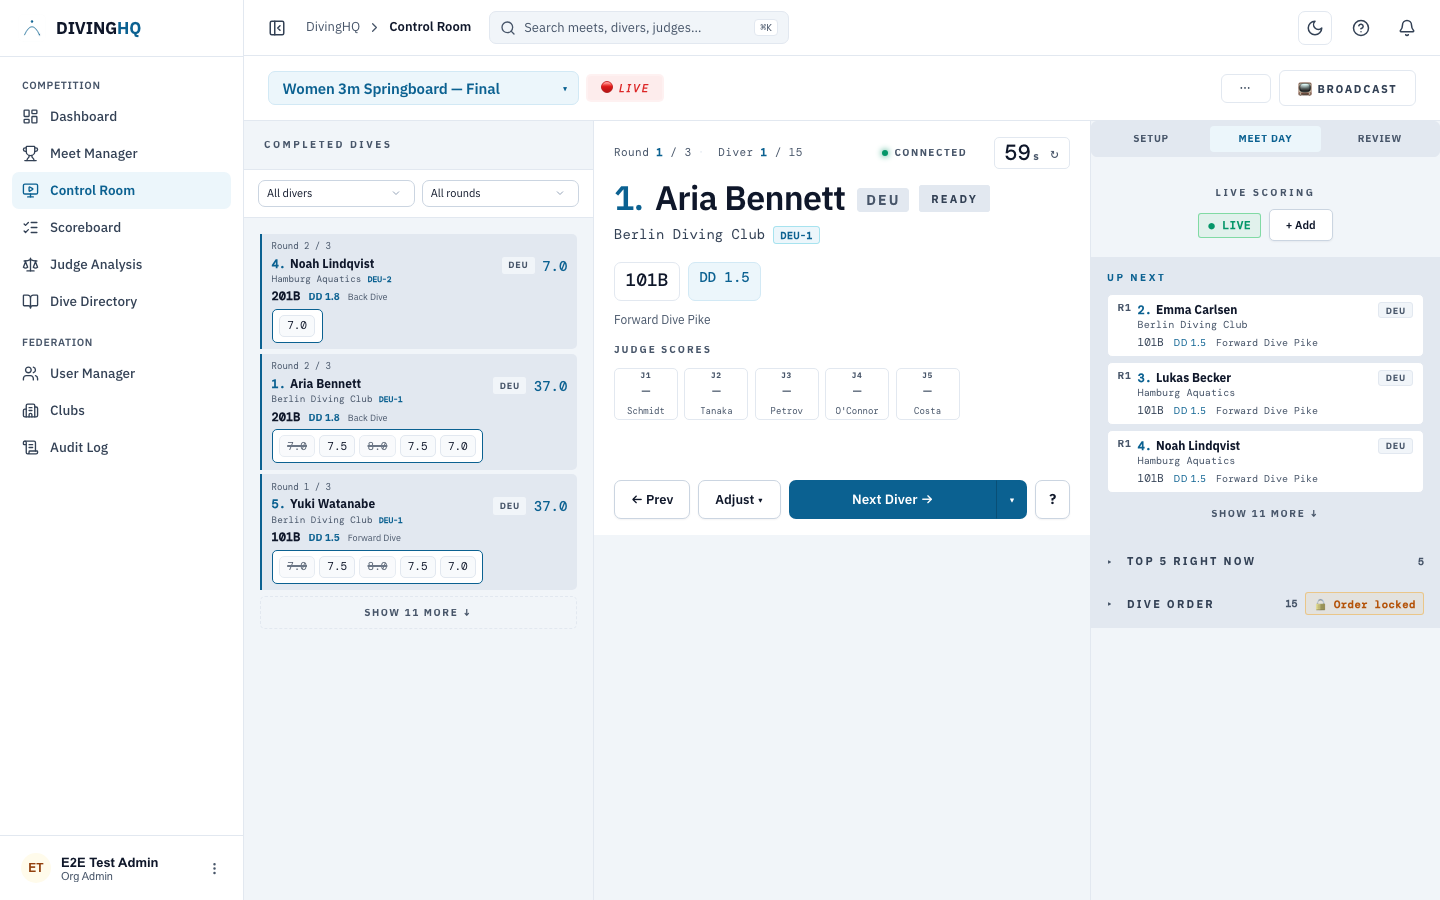
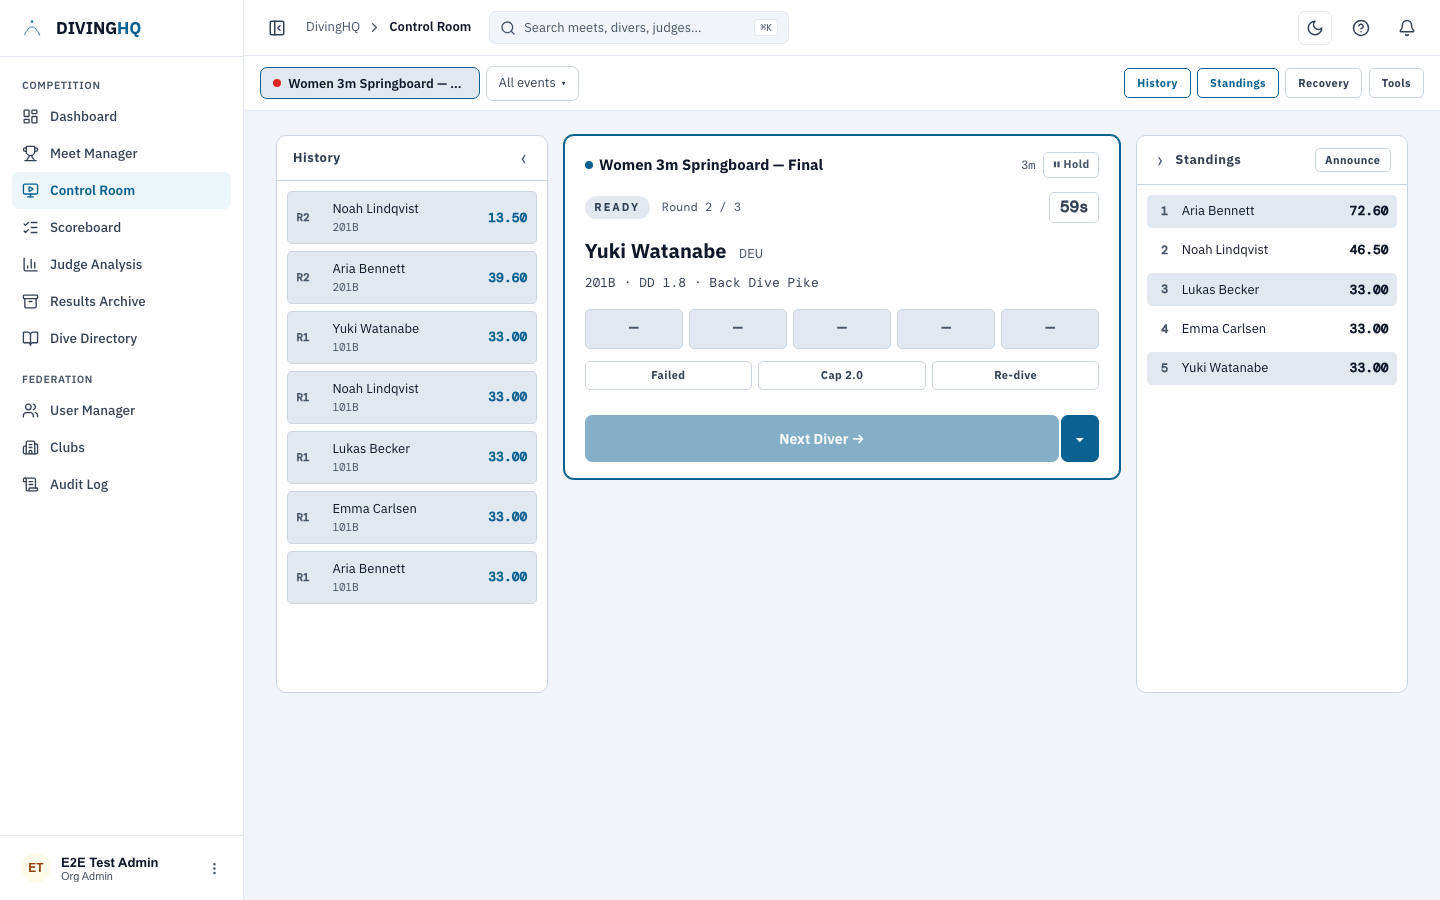
Docs: multi-event Control Room (README, in-app guide, screenshots)
Reflect the simultaneous-events Control Room across the docs:
- README Control Room section rewritten for the top event bar, the
  three-column single-event board, and the side-by-side pool cards when
  multiple events are live; new control-room-simultaneous.png + refreshed
  control-room.png (V2).
- In-app guide (GuideView): Control Room copy now mentions running two or
  more events at once; removed the dead Control Room keyboard-shortcuts
  section (V2 has no hotkeys — the V1 composable is gone); refreshed the
  guide-screenshots/control-room.png tile.
- wiki-screenshots harness: capture control-room-simultaneous.png (two
  Live events) alongside the single-event control-room.png. Wiki pages
  pull these from docs/screenshots on main.

diff --git a/src/views/GuideView.vue b/src/views/GuideView.vue
@@ -21,17 +21,12 @@
  *      each with a thumbnail screenshot served from
  *      /public/guide-screenshots/. Lazy-loaded so the page above
  *      the fold stays cheap.
- *   4. Keyboard shortcuts — the Control Room hotkeys an operator
- *      needs after their first meet. Universal symbols (Space,
- *      T, F, ←, →) are hardcoded in the template so they don't
- *      multiply the i18n key count for what is already universal
- *      across keyboards. Only the per-row descriptions are i18n'd.
- *   5. Glossary — diving-specific vocabulary (DD, trim, synchro,
+ *   4. Glossary — diving-specific vocabulary (DD, trim, synchro,
  *      redive, board heights) that newcomers will hit on day one.
- *   6. FAQ — common first questions, now a <details>/<summary>
+ *   5. FAQ — common first questions, now a <details>/<summary>
  *      accordion so users can scan questions without scrolling
  *      past every answer.
- *   7. Wiki — links to the deep-dive material.
+ *   6. Wiki — links to the deep-dive material.
  *
  * Navigation:
  *   • A sticky table-of-contents sits on the left on desktop;
@@ -64,7 +59,6 @@ const SECTIONS = [
   { id: 'overview',      key: 'overview' },
   { id: 'roles',         key: 'roles' },
   { id: 'quick-actions', key: 'quick_actions' },
-  { id: 'shortcuts',     key: 'shortcuts' },
   { id: 'glossary',      key: 'glossary' },
   { id: 'faq',           key: 'faq' },
   { id: 'wiki',          key: 'wiki' },
@@ -83,22 +77,6 @@ const TILES = [
   { id: 'coach',          to: '/coach',           img: '/guide-screenshots/coach.png',          glyph: '🎓' },
   { id: 'meet_manager',   to: '/manager',         img: '/guide-screenshots/meet-manager.png',   glyph: '📋' },
   { id: 'dive_directory', to: '/dive-directory',  img: '/guide-screenshots/dive-directory.png', glyph: '📖' },
-]
-
-// Control Room hotkeys. Keys are universal (Space, ←, →, single
-// letters) so they're hardcoded in the template. The description
-// half is i18n'd. Source of truth: see Control Room composable
-// `useControlRoomShortcuts` — if hotkeys change there, mirror
-// the change here.
-const SHORTCUTS = [
-  { keys: ['Space'],     descKey: 'next_diver' },
-  { keys: ['T'],         descKey: 'top_of_round' },
-  { keys: ['F'],         descKey: 'fail' },
-  { keys: ['R'],         descKey: 'redive' },
-  { keys: ['H'],         descKey: 'hold' },
-  { keys: ['L'],         descKey: 'live_toggle' },
-  { keys: ['←', '→'],    descKey: 'queue_nav' },
-  { keys: ['?'],         descKey: 'help_overlay' },
 ]
 
 // Glossary of diving-specific terms. Term labels are universal
@@ -306,24 +284,6 @@ onBeforeUnmount(() => observer?.disconnect())
               </div>
             </RouterLink>
           </div>
-        </section>
-
-        <!-- Keyboard shortcuts — Control Room hotkeys. Live in
-             the guide rather than only the in-app `?` overlay so
-             a meet manager can study them before the meet from
-             a different device. -->
-        <section id="shortcuts" class="guide-section">
-          <h2 class="guide-h2">{{ $t('guide.section_shortcuts') }}</h2>
-          <p class="guide-section-lede">{{ $t('guide.shortcuts.lede') }}</p>
-
-          <dl class="guide-shortcuts">
-            <template v-for="row in SHORTCUTS" :key="row.descKey">
-              <dt class="guide-shortcut-keys">
-                <kbd v-for="k in row.keys" :key="k">{{ k }}</kbd>
-              </dt>
-              <dd class="guide-shortcut-desc">{{ $t(`guide.shortcut.${row.descKey}`) }}</dd>
-            </template>
-          </dl>
         </section>
 
         <!-- Glossary — diving-specific vocabulary. Terms are

diff --git a/test/e2e/wiki-screenshots.spec.js b/test/e2e/wiki-screenshots.spec.js
@@ -542,7 +542,7 @@ test("spectator: scoreboard list + live + archive + meet", async ({ page, reques
 // PHASE 4 — Operator views: dashboard / control room / meet
 // manager (signed in as admin).
 // =============================================================
-test("operator: dashboard / control-room / meet-manager", async ({ page, baseURL }) => {
+test("operator: dashboard / control-room / meet-manager", async ({ page, baseURL, request }) => {
   test.setTimeout(120_000);
   await page.setViewportSize(VIEWPORT);
   await signIn(page, world.adminUsername);
@@ -601,6 +601,66 @@ test("operator: dashboard / control-room / meet-manager", async ({ page, baseURL
     path: `${SCREENSHOT_DIR}/new-event-modal.png`,
     fullPage: false,
   });
+
+  // 5. control-room-simultaneous.png — TWO Live events running at once.
+  //    Spin up a second Live event (created last so the single-event
+  //    control-room.png + meet-manager.png above stay one-Live), then
+  //    open the Control Room: the side columns auto-collapse to drawers
+  //    and each Live event renders as its own pool card.
+  const diveId = await setup.pickDiveId({ height: 3.0, dive_code: "101", position: "B" });
+  const liveB = await setup.createEvent(request, {
+    adminToken: world.adminToken,
+    name: "Men 3m Springboard — Final",
+    gender: "Male",
+    number_of_judges: 5,
+    total_rounds: 3,
+    height: "3m",
+    event_type: "individual",
+  });
+  await request.put(`/api/events/${liveB.id}/meet`, {
+    headers: { Authorization: `Bearer ${world.adminToken}` },
+    data: { meet_id: world.meetId },
+  });
+  for (const diver of world.divers.slice(0, 4)) {
+    await setup.insertDiveList({
+      eventId: liveB.id,
+      competitorId: diver.userId,
+      dives: [{ round_number: 1, dive_id: diveId }],
+    });
+  }
+  await setup.assignJudges(request, {
+    adminToken: world.adminToken,
+    eventId: liveB.id,
+    judgeIds: world.judges.map((j) => j.userId),
+  });
+  await setup.setEventStatus(request, {
+    adminToken: world.adminToken,
+    eventId: liveB.id,
+    status: "Live",
+  });
+
+  // Re-announce the first event's mid-meet diver so its pool reads live.
+  const simSocket = await openSocket(baseURL || world.baseURL, world.adminToken);
+  simSocket.emit("subscribe_event", { event_id: world.liveEvent.id });
+  simSocket.emit("set_active_diver", {
+    event_id:      world.liveEvent.id,
+    competitor_id: world.thirdDiverId,
+    diverName:     world.liveDivers[2].fullName,
+    full_name:     world.liveDivers[2].fullName,
+    round_number:  2,
+    diveCode:      "201B",
+    dd:            1.8,
+    description:   "Back Dive",
+    position:      "B",
+    eventName:     world.liveEvent.name,
+  });
+
+  await page.goto(`/control?event=${world.liveEvent.id}`);
+  await expect(page.locator(".cv2-pool")).toHaveCount(2, { timeout: 15_000 });
+  await expect(page.locator(".cv2-pool .cv2-live-diver").first()).toBeVisible({ timeout: 15_000 });
+  await settle(page, 1500);
+  await snap(page, "control-room-simultaneous");
+  simSocket.disconnect();
 });
 
 // =============================================================

diff --git a/README.md b/README.md
@@ -13,7 +13,7 @@ Built around five audiences:
 
 - **Divers** — Diver Portal for building and submitting dive lists per event (with World Aquatics DD lookup, height filter, synchro partner autocomplete), plus a personal profile with PBs, score-trend sparkline, average DD, best single dive, and a customisable analytics dashboard with 10+ widgets. Divers can also request a **club change** (subject to org-admin approval) from their Dive Sheets page.
 - **Coaches** — A `coach` role with a per-coach roster of linked divers, on-behalf-of dive-list submission, a real-time "your diver is up next" push alert, and one-click access to each diver's profile.
-- **Meet operators** — Control room view advances divers, broadcasts state to judges and the public scoreboard, finalises events. 60-second shot clock, hold/resume, score correction, queue reorder, late entry, audit-logged referee actions. Events are organised in a master–detail **Meet Manager** (meets on the left, their events on the right). Org admins run their federation from a **User Manager** — edit a member’s competition details (name, DOB, gender, nationality), assign clubs, suspend / reactivate accounts, trigger password-reset and email-verification emails, grant org roles, and approve **club-change requests**, including cross-federation **transfers** via a source-org + target-org + diver handshake. Every change is written to the Audit Log.
+- **Meet operators** — Control room view advances divers, broadcasts state to judges and the public scoreboard, finalises events — and runs **two or more events simultaneously from one window**, each pool with its own shot clock and controls. 60-second shot clock, hold/resume, score correction, queue reorder, late entry, audit-logged referee actions. Events are organised in a master–detail **Meet Manager** (meets on the left, their events on the right). Org admins run their federation from a **User Manager** — edit a member’s competition details (name, DOB, gender, nationality), assign clubs, suspend / reactivate accounts, trigger password-reset and email-verification emails, grant org roles, and approve **club-change requests**, including cross-federation **transfers** via a source-org + target-org + diver handshake. Every change is written to the Audit Log.
 - **Judges** — Single-purpose phone-friendly view that submits scores back to the server in real time. Synchro panels see role hints (Exec A / Exec B / Sync) so they know which judging slot they're filling. **Judge Analysis** (`/judge-profile`) gives every judge a self-service dashboard showing how their scoring tracks against the panel-kept mean (post World Aquatics trim, PART FOUR Article 13) — overall bias, drop rate (with high vs low split), and breakdowns per board height, dive group, country, club, individual diver, round, and DD difficulty. Fully customisable widget catalogue, mirroring the diver dashboard pattern. A separate per-event **Judge Analysis** matrix (`/judge-analysis` — a tabbed By-Event / By-Judge page, with the app shell for signed-in users and a standalone view for the public) shows how each judge’s calls would have re-ranked the field, with World-Aquatics-correct synchro role breakdowns (Exec A / Exec B / Sync contributions that sum to the pair total, per Article 9.1.5).
 - **Spectators** — Public scoreboard with current performer, live standings, per-round leaderboard with movement arrows, public meet landing pages, and an archive of completed meets.
 
@@ -129,9 +129,15 @@ The `+ New Event` button opens the create-event modal — suggested templates, m
 
 #### Control Room
 
-The operator's cockpit during a live meet, deliberately pared back so only the things you need every dive are visible at rest — secondary actions live behind small popovers. Left column is the running history of completed dives (click any card to open the **Score Correction modal**, which now shows a live preview of trim sum + dive points + delta as you type). Centre column is the active diver — name, country chip, club affiliation, dive code + DD + description, the live judge tile strip, an inline auto-cycling status pill (READY / DIVING / JUDGING), and the 60-second WA post-warning shot clock anchored top-right. The bottom action row reads `← Prev · Adjust ▾ · Next Diver → ▾ · ?` — Adjust houses Failed Dive / Cap Score / Re-Dive; Next Diver's `▾` opens the Auto-next picker; `?` reveals every keyboard shortcut. Right column is **Pre-Meet** at the top (4-pip stepper `✓ Check-in ── ✓ Randomise ── (3) Sign Off ── (4) Start` above the colour-coded workflow button so a new operator sees the whole flow at a glance) plus Up Next visible and Top 5 Right Now + Dive Order panels as collapsed accordions. Clicking the green Start Event button opens the **Pre-Flight Review modal** — last-chance summary of roster / panel / referee status with warnings for misconfigurations (synchro on a 5-judge panel, divers with incomplete dive lists, partial panel). Header `⋯` menu houses Hold / Broadcast mode / Dashboard / Finalise event early (during Live).
+The operator's cockpit during a live meet — and it now drives **two or more events at once from a single window**, so a venue running 3 m and 10 m concurrently (or a Super Final's two stages) no longer needs a browser window per pool. A **top event bar** is the only event switcher: every Live event shows as a one-tap chip (the focused one highlighted), with an **All events** dropdown for upcoming/completed and the action set — History · Standings · Recovery · Tools — on the right.
+
+With **one event live** it's the familiar three-column board: the running **History** of completed dives on the left (click any card to open the **Score Correction modal**, with a live preview of trim sum + dive points + delta as you type); the active diver in the centre — name, country chip, dive code + DD + description, the live judge tile strip, a READY / DIVING / JUDGING status pill, the 60-second WA post-warning shot clock, a Failed / Cap / Re-dive referee row, and the bottom-pinned **Next Diver / Finalise** primary with an Auto-next picker; and **Standings** on the right with an **Announce** button that pushes the board to the spectator scoreboard.
 
 ![Control Room](./docs/screenshots/control-room.png)
+
+With **multiple events live**, History and Standings collapse into edge drawers (one tap to peek the focused pool) and each Live event becomes its own **pool card** side by side — each with its own shot clock, auto-advance, Hold, judge tiles, and referee actions, so a background pool keeps scoring and can auto-advance itself while you work another. Scores route to the right pool by event id; a `set_active_diver` that the server rate-limits is caught client-side and flagged for retry; and an advisory **operator lease** warns (without blocking) if a second operator or window is driving the same event. Recovery (meet hold/resume) and the secondary-surfaces drawer (Broadcast / Reserves / Audit) round out the toolset.
+
+![Control Room — two events at once](./docs/screenshots/control-room-simultaneous.png)
 
 #### Assign Judges
 
@@ -636,7 +642,7 @@ Top of the food chain inside one federation — the person whose name is on the 
 
 ### `meet_manager` — Meet organiser
 
-The person actually running the meet on the day. They live in ControlView for those eight hours: starting every event on time, keeping the queue clean, and surviving the inevitable late-arriving diver without the controller crashing.
+The person actually running the meet on the day. They live in the Control Room for those eight hours — often driving several pools at once — starting every event on time, keeping each queue clean, and surviving the inevitable late-arriving diver without the controller crashing.
 
 **What they can do:**
 - Schedule events (`scheduled_at`) and set the registration deadline (`entries_close_at`)
